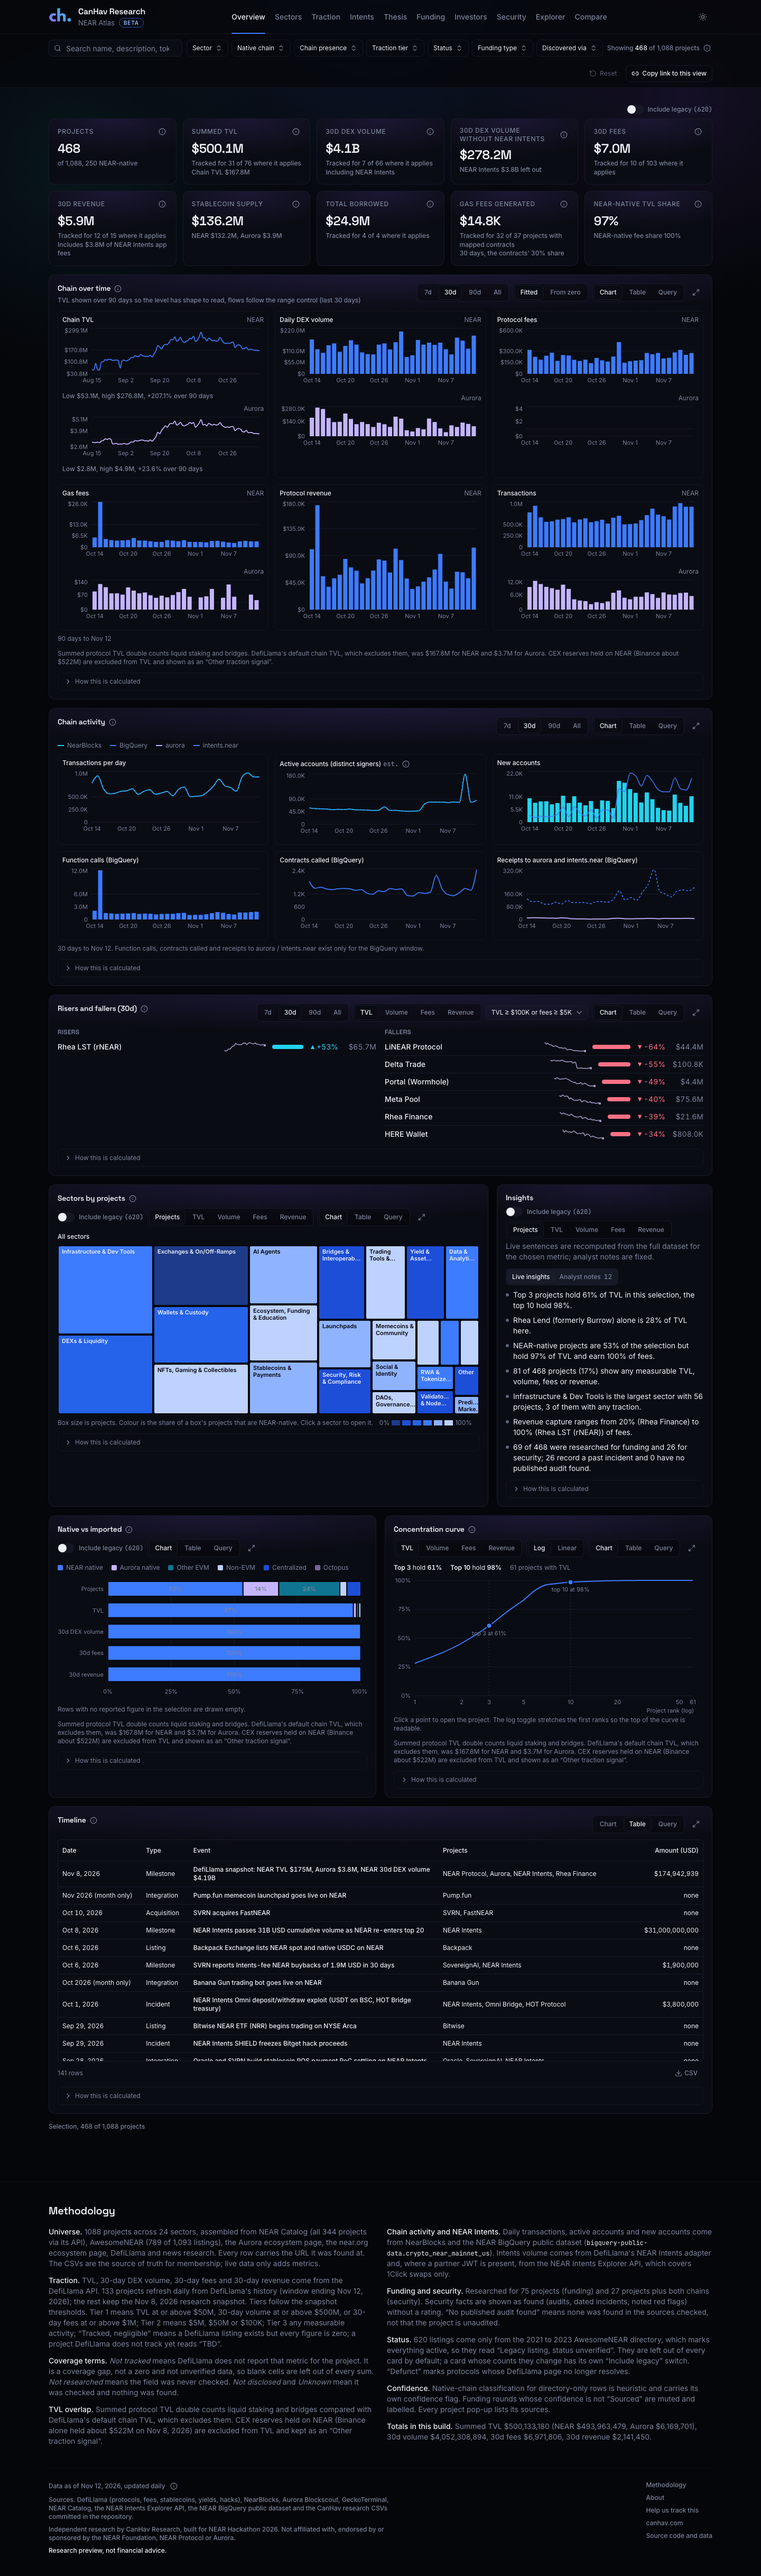
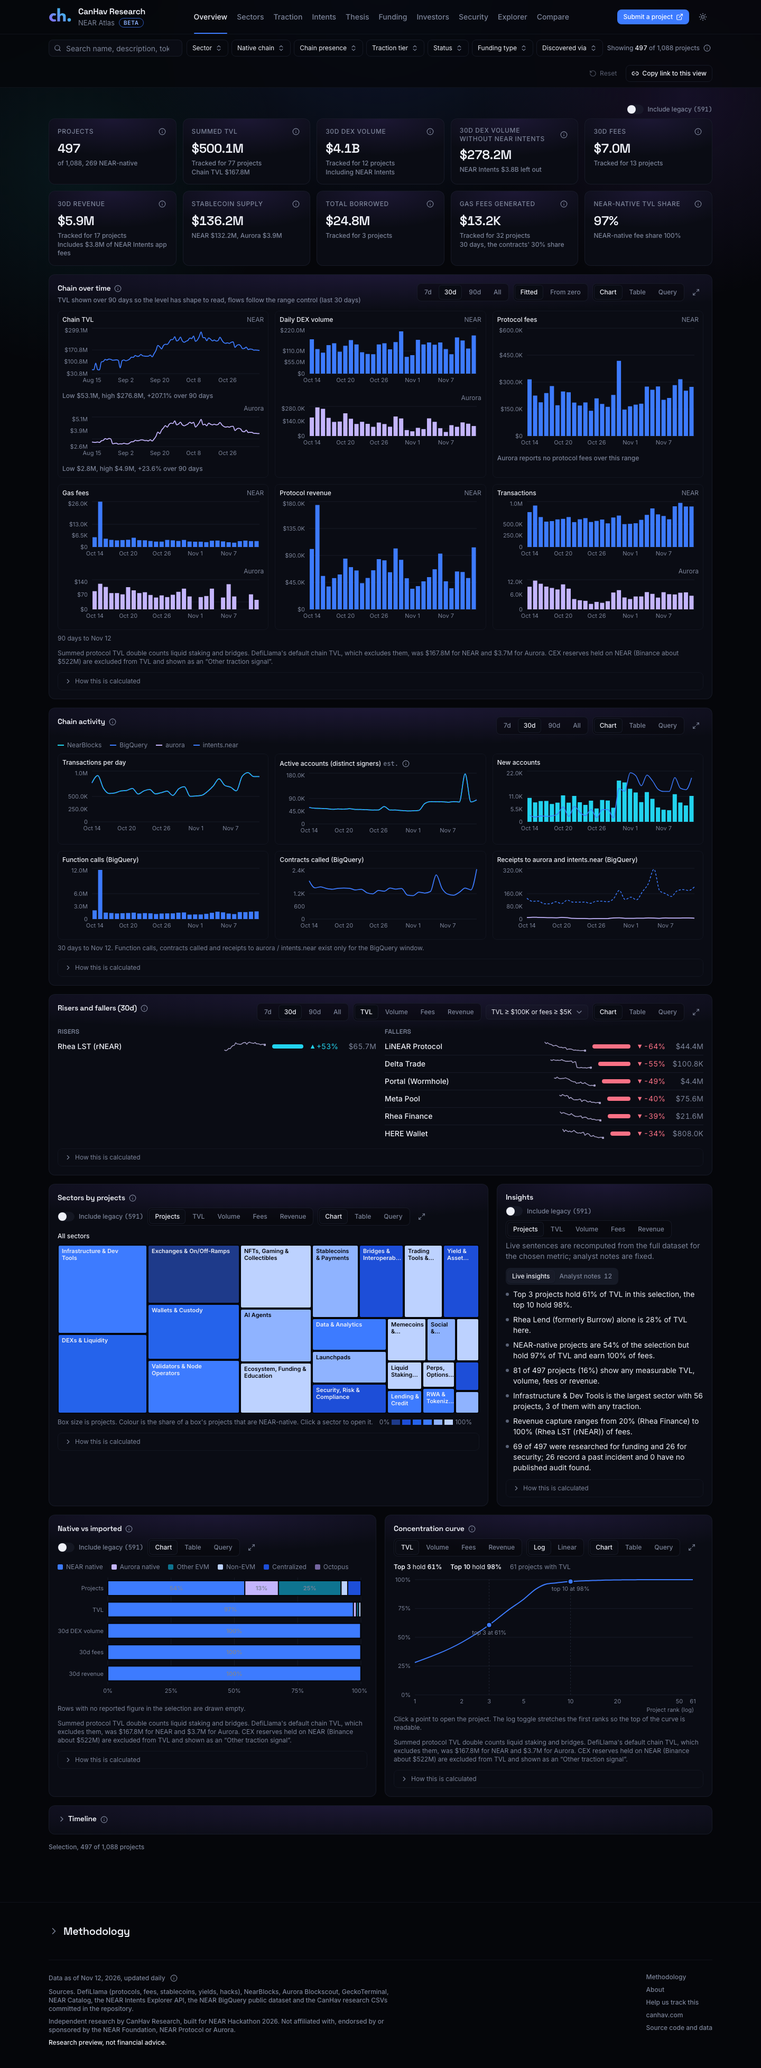
Overview: the Timeline and the Methodology section are dropdowns, closed until opened; a link to Methodology opens it

diff --git a/e2e/pages.spec.ts b/e2e/pages.spec.ts
@@ -51,6 +51,14 @@ for (const p of PAGES) {
   });
 }
 
+/** The Overview timeline is a dropdown, closed on load; this opens it. */
+async function openTimeline(page: Page) {
+  const toggle = page.locator('[data-chart-card="Timeline"] h3 button[aria-expanded]');
+  await expect(toggle).toBeVisible({ timeout: 15_000 });
+  if ((await toggle.getAttribute("aria-expanded")) !== "true") await toggle.click();
+  await expect(toggle).toHaveAttribute("aria-expanded", "true");
+}
+
 test("the tabs sit in the header row from 1360px and drop to their own row below it", async ({ page }) => {
   const rows = async () =>
     page.evaluate(() => {
@@ -232,6 +240,9 @@ for (const url of ["/", "/intents/"]) {
     const names = (await cards.evaluateAll((els) => els.map((e) => e.getAttribute("data-chart-card") ?? ""))).filter((n) => n !== "Insights");
     expect(names.length).toBeGreaterThan(3);
     for (const name of names) {
+      // A dropdown card (the Overview timeline) shows its block once opened.
+      const closed = page.locator(`[data-chart-card="${name}"] h3 button[aria-expanded="false"]`);
+      if (await closed.count()) await closed.click();
       const block = page.locator(`[data-chart-card="${name}"] [data-how-calculated]`).first();
       await expect(block, `${name} has no How this is calculated block`).toHaveCount(1);
       await block.locator("summary").click();
@@ -359,6 +370,7 @@ test("the explorer search writes the same q as the filter bar and its count foll
 
 test("the timeline opens on its table, and its chart opens on 2024 with earlier events one click away", async ({ page }) => {
   await page.goto("/");
+  await openTimeline(page);
   const card = page.locator('[data-chart-card="Timeline"]');
   const views = card.getByRole("tablist", { name: "View as" });
   await expect(views.getByRole("tab", { name: "Table" })).toHaveAttribute("aria-selected", "true", { timeout: 15_000 });
@@ -370,7 +382,18 @@ test("the timeline opens on its table, and its chart opens on 2024 with earlier 
   const label = await toggle.textContent();
   const earlier = Number(label?.match(/\((\d+)\)/)?.[1]);
   expect(earlier).toBeGreaterThan(0);
-  const markersBefore = await card.locator(".recharts-scatter-symbol").count();
+  // The chart draws its markers over a few frames; read the count once it stops changing.
+  const markers = card.locator(".recharts-scatter-symbol");
+  let last = -1;
+  await expect
+    .poll(async () => {
+      const n = await markers.count();
+      const settled = n > 0 && n === last;
+      last = n;
+      return settled;
+    }, { intervals: [250, 250, 250, 500, 500, 1000] })
+    .toBe(true);
+  const markersBefore = await markers.count();
   await toggle.click();
   await expect(card.getByRole("button", { name: /Hide events before/ })).toBeVisible();
   await expect.poll(() => card.locator(".recharts-scatter-symbol").count()).toBe(markersBefore + earlier);
@@ -379,6 +402,7 @@ test("the timeline opens on its table, and its chart opens on 2024 with earlier 
 test("a timeline row opens the event pop-up with its source, kept in the URL", async ({ page }, info) => {
   const errors = await collectErrors(page);
   await page.goto("/");
+  await openTimeline(page);
   const card = page.locator('[data-chart-card="Timeline"]');
   const first = card.locator("tbody tr").first();
   await expect(first).toBeVisible({ timeout: 15_000 });
@@ -620,6 +644,7 @@ test("with a filter every Overview card follows it, the chain cards switching to
   await page.goto("/");
   const chainStats = await page.locator('[data-chart-card="Chain over time"]').getByTestId("range-stats").first().textContent({ timeout: 15_000 });
   const timeline = page.locator('[data-chart-card="Timeline"]');
+  await openTimeline(page);
   await expect(timeline.locator("tbody tr").first()).toBeVisible();
   const allRows = await timeline.locator("tbody tr").count();
 
@@ -643,6 +668,7 @@ test("with a filter every Overview card follows it, the chain cards switching to
   await expect(activity.getByTestId("panel-scope").filter({ hasText: "Whole chain" })).toHaveCount(5);
 
   // The timeline keeps only events tagged with a selected project.
+  await openTimeline(page);
   await expect(timeline.locator("[data-scope]")).toHaveText("1 filter active");
   const rows = await timeline.locator("tbody tr").count();
   expect(rows).toBeGreaterThan(0);
@@ -653,6 +679,28 @@ test("with a filter every Overview card follows it, the chain cards switching to
   await page.goto("/");
   await expect(page.locator('[data-chart-card="Chain over time"]')).toBeVisible({ timeout: 15_000 });
   expect(errors, errors.join("\n")).toEqual([]);
+});
+
+test("the Overview timeline and the Methodology section are dropdowns, closed until opened", async ({ page }) => {
+  await page.goto("/");
+  const card = page.locator('[data-chart-card="Timeline"]');
+  const toggle = card.locator("h3 button[aria-expanded]");
+  await expect(toggle).toHaveAttribute("aria-expanded", "false", { timeout: 15_000 });
+  await expect(card.locator("tbody tr")).toHaveCount(0);
+  await toggle.click();
+  await expect(card.locator("tbody tr").first()).toBeVisible();
+  await toggle.click();
+  await expect(card.locator("tbody tr")).toHaveCount(0);
+  const methodology = page.locator("details#methodology");
+  await expect(methodology).not.toHaveAttribute("open", "");
+  await expect(methodology.getByText("Coverage terms.")).toBeHidden();
+  // The footer link to the section opens it.
+  await page.locator('footer a[href="#methodology"]').click();
+  await expect(methodology).toHaveAttribute("open", "");
+  await expect(methodology.getByText("Coverage terms.")).toBeVisible();
+  // A shared link to the section opens it on load.
+  await page.goto("/about/#methodology");
+  await expect(page.locator("details#methodology")).toHaveAttribute("open", "", { timeout: 15_000 });
 });
 
 test("KPI tiles count the projects in each sum and list them in the info pop-up", async ({ page }) => {

diff --git a/src/components/atlas/chart-card.tsx b/src/components/atlas/chart-card.tsx
@@ -1,6 +1,6 @@
 "use client";
 
-import { Maximize2 } from "lucide-react";
+import { ChevronDown, Maximize2 } from "lucide-react";
 import { usePathname } from "next/navigation";
 import { parseAsString, useQueryState } from "nuqs";
 import { useMemo, useState, type ReactNode } from "react";
@@ -64,6 +64,8 @@ interface ChartCardProps {
   source?: string;
   /** The view the card and its expanded copy open on. A card of records (the timeline) opens on its table. */
   defaultView?: ChartView;
+  /** A card that folds to its title row, like a dropdown (the Overview timeline). Closed unless `defaultOpen`. */
+  collapsible?: { defaultOpen?: boolean };
   /** A card whose counts legacy listings change: shows its "Include legacy" switch and says when it includes them. */
   legacyCard?: LegacyCard;
 }
@@ -95,7 +97,11 @@ export function ScopeNote({ scope = "filtered", className, legacy = false }: { s
   );
 }
 
-export function ChartCard({ title, takeaway, info, children, className, actions, scale, onScaleChange, footer, id, table, queries, method, scope, expandable = true, level = false, subtitle, source, takeawayPlacement = "expanded", defaultView = "chart", legacyCard }: ChartCardProps) {
+export function ChartCard({ title, takeaway, info, children, className, actions, scale, onScaleChange, footer, id, table, queries, method, scope, expandable = true, level = false, subtitle, source, takeawayPlacement = "expanded", defaultView = "chart", legacyCard, collapsible }: ChartCardProps) {
+  // A collapsible card shows only its title row until opened; the state is the reader's, kept out of the URL.
+  const [shown, setShown] = useState(collapsible?.defaultOpen ?? false);
+  const isOpen = !collapsible || shown;
+  const bodyId = `${id ?? title.replace(/\W+/g, "-").toLowerCase()}-body`;
   const legacy = useLegacyOn(legacyCard);
   const firstView: ChartView = defaultView === "table" && !table ? "chart" : defaultView;
   const [view, setView] = useState<ChartView>(firstView);
@@ -149,7 +155,23 @@ export function ChartCard({ title, takeaway, info, children, className, actions,
           <div className="min-w-[min(15rem,100%)] flex-1">
             <div className="flex flex-wrap items-center gap-x-2 gap-y-0.5">
               <span className="flex items-center gap-1">
-                <h3 className="text-sm font-semibold leading-tight">{title}</h3>
+                {collapsible ? (
+                  <h3 className="text-sm font-semibold leading-tight">
+                    <button
+                      type="button"
+                      aria-expanded={isOpen}
+                      aria-controls={bodyId}
+                      onClick={() => setShown((v) => !v)}
+                      className="inline-flex items-center gap-1 rounded-sm text-left focus-visible:outline-none focus-visible:ring-2 focus-visible:ring-electric-500/60"
+                    >
+                      <ChevronDown aria-hidden="true" className={cn("size-4 shrink-0 text-ink-300 transition-transform", !isOpen && "-rotate-90")} />
+                      <span className="sr-only">{isOpen ? "Hide " : "Show "}</span>
+                      {title}
+                    </button>
+                  </h3>
+                ) : (
+                  <h3 className="text-sm font-semibold leading-tight">{title}</h3>
+                )}
                 <InfoTip label={`About ${title}`}>{info}</InfoTip>
               </span>
               <ScopeNote scope={scope} legacy={legacy} />
@@ -157,7 +179,7 @@ export function ChartCard({ title, takeaway, info, children, className, actions,
             {inline && <p className="mt-1 text-sm text-ink-300">{takeaway}</p>}
             {subtitle && <p className="mt-1 text-label text-ink-300">{subtitle}</p>}
           </div>
-          <div className="flex max-w-full flex-wrap items-center gap-2">
+          <div className={cn("flex max-w-full flex-wrap items-center gap-2", !isOpen && "hidden")}>
             {controls(view, setView)}
             {canExpand && (
               <Button variant="ghost" size="icon-sm" aria-label={`Expand ${title}`} title="Expand" onClick={() => void setExpand(id ?? null)}>
@@ -167,11 +189,15 @@ export function ChartCard({ title, takeaway, info, children, className, actions,
           </div>
         </div>
       </CardHeader>
-      <CardContent className="px-4" data-chart-body>
-        {body(view, inlineFrame)}
-      </CardContent>
-      {footer && <div className="px-4 text-xs text-ink-300">{footer}</div>}
-      {method && <HowCalculated method={method} className="mx-4" />}
+      {isOpen && (
+        <>
+          <CardContent id={bodyId} className="px-4" data-chart-body>
+            {body(view, inlineFrame)}
+          </CardContent>
+          {footer && <div className="px-4 text-xs text-ink-300">{footer}</div>}
+          {method && <HowCalculated method={method} className="mx-4" />}
+        </>
+      )}
 
       {canExpand && (
         <Dialog open={open} onOpenChange={(o) => !o && close()}>

diff --git a/src/components/layout/methodology-details.tsx b/src/components/layout/methodology-details.tsx
@@ -1,0 +1,43 @@
+"use client";
+
+import { ChevronDown } from "lucide-react";
+import { useEffect, useRef, type ReactNode } from "react";
+
+/**
+ * The footer's Methodology section as a dropdown, closed by default. A link to #methodology (the footer link, the
+ * About page, a shared URL) opens it and scrolls to it, so the section is never hidden behind a link that points at it.
+ */
+export function MethodologyDetails({ children }: { children: ReactNode }) {
+  const ref = useRef<HTMLDetailsElement>(null);
+  useEffect(() => {
+    const reveal = () => {
+      const el = ref.current;
+      if (!el) return;
+      el.open = true;
+      el.scrollIntoView({ block: "start" });
+    };
+    if (window.location.hash === "#methodology") reveal();
+    const onHash = () => window.location.hash === "#methodology" && reveal();
+    // A click on a link to the section when the hash is already #methodology fires no hashchange, so clicks are caught too.
+    const onClick = (e: MouseEvent) => {
+      if ((e.target as Element | null)?.closest?.('a[href="#methodology"]')) reveal();
+    };
+    window.addEventListener("hashchange", onHash);
+    document.addEventListener("click", onClick);
+    return () => {
+      window.removeEventListener("hashchange", onHash);
+      document.removeEventListener("click", onClick);
+    };
+  }, []);
+  return (
+    <details ref={ref} id="methodology" aria-labelledby="methodology-title" className="group text-sm text-ink-300">
+      <summary className="flex w-fit cursor-pointer list-none items-center gap-2 rounded-sm focus-visible:outline-none focus-visible:ring-2 focus-visible:ring-electric-500/60 [&::-webkit-details-marker]:hidden">
+        <ChevronDown aria-hidden="true" className="size-5 -rotate-90 text-ink-300 transition-transform group-open:rotate-0" />
+        <h2 id="methodology-title" className="text-title text-ink-50">
+          Methodology
+        </h2>
+      </summary>
+      {children}
+    </details>
+  );
+}

diff --git a/src/components/layout/site-footer.tsx b/src/components/layout/site-footer.tsx
@@ -3,6 +3,7 @@ import { DataFreshness } from "@/components/atlas/data-freshness";
 import { meta, projects } from "@/lib/data";
 import { SIBLING_ATLAS_URL } from "@/lib/env";
 import { fmtUsdFull } from "@/lib/format";
+import { MethodologyDetails } from "./methodology-details";
 
 /** Directory-only listings whose status is still unverified (validators with a live pool were promoted on 2026-11-13). */
 const LEGACY_LISTINGS = projects.filter((p) => p.statusGroup === "Legacy listing").length;
@@ -17,10 +18,7 @@ export function SiteFooter() {
   return (
     <footer className="mt-16 border-t border-ink-700/40">
       <div className="mx-auto w-full max-w-atlas px-5 py-10 sm:px-6 lg:px-8">
-        <section id="methodology" aria-labelledby="methodology-title" className="text-sm text-ink-300">
-          <h2 id="methodology-title" className="text-title">
-            Methodology
-          </h2>
+        <MethodologyDetails>
           <div className="mt-4 grid gap-6 md:grid-cols-2">
             <div className="space-y-3">
               <p>
@@ -79,7 +77,7 @@ export function SiteFooter() {
               </p>
             </div>
           </div>
-        </section>
+        </MethodologyDetails>
 
         <div className="mt-10 flex flex-col gap-6 border-t border-ink-700/40 pt-6 text-label text-ink-300 md:flex-row md:items-start md:justify-between">
           <div className="max-w-2xl space-y-2">

diff --git a/src/components/atlas/timeline.tsx b/src/components/atlas/timeline.tsx
@@ -162,6 +162,7 @@ export function Timeline({ events, defaultStart, title = "Timeline", id = "timel
       source="Research events CSV (data/near-events-*.csv), every row with its source link"
       table={table}
       defaultView="table"
+      collapsible={{ defaultOpen: false }}
     >
       {(frame: ChartFrame) => (
         <div>
